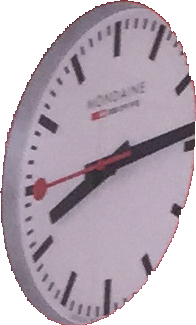
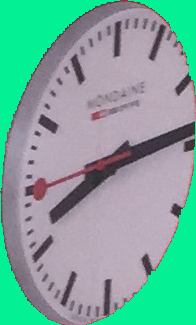
Add diameter lines

Changed region(s): [[0.0, 0.0, 0.5816, 1.0], [0.4592, 0.3692, 1.0, 1.0], [0.6735, 0.0, 1.0, 0.3077]]

diff --git a/center.js b/center.js
@@ -1,22 +1,43 @@
 const colors = require('./colors');
 const Point = require('./point');
 
-exports.find = function (image, image_name) {
-  const top = getTop(image, colors.BLACK);
-  const bottom = getBottom(image, colors.BLACK);
-  Point.paintLineBetween(image, colors.RED, bottom, top);
-  image.setPixelColor(colors.RED, top[0], top[1]);
-  image.setPixelColor(colors.RED, bottom[0], bottom[1]);
-  image.write(`./result/${image_name}/parameterized.jpg`);  // on this path an image is saved showing the advance
+exports.find = function (image, image_name, original) {
+  const vertDiameter = getVerticalDiameter(image, original);
+  const horizDiameter = getHorizontalDiameter(image, original);
+  original.write(`./result/${image_name}/parameterized.jpg`);  // on this path an image is saved showing the advance
   return image;
 };
+
+function getVerticalDiameter(image, original) {
+  const top = getTop(image, colors.BLACK);
+  const bottom = getBottom(image, colors.BLACK);
+  const diameter = paintDiameter(original, top, bottom, colors.PURPLE, colors.RED);
+  return diameter;
+}
+
+function getHorizontalDiameter(image, original) {
+  const left = getLeft(image, colors.BLACK);
+  const right = getRight(image, colors.BLACK);
+  const diameter = paintDiameter(original, left, right, colors.BLUE, colors.YELLOW);
+  return diameter;
+}
+
+function paintDiameter(image, p1, p2, mainColor, centerColor) {
+  Point.paintLineBetween(image, mainColor, p1, p2);
+  const center = Point.midPoint(p1, p2);
+  console.log(center);
+  image.setPixelColor(centerColor, center[0], center[1]);
+  image.setPixelColor(centerColor, p1[0], p1[1]);
+  image.setPixelColor(centerColor, p2[0], p2[1]);
+  return image;
+}
 
 
 // returns the coordinates of the pixel of the middle of the first line of color segment_color
 function getTop(image, segment_color) {
   const WIDTH = image.bitmap.width;
   const HEIGHT = image.bitmap.height;
-  let y = 0;
+  let x = 0;
   let n = 0;
   let found = false;
   for (let j = 0; j < HEIGHT; j++) {
@@ -24,13 +45,13 @@ function getTop(image, segment_color) {
       const color = image.getPixelColor(i, j);
       if (color === segment_color) {
         found = true;
-        y += i;
+        x += i;
         n += 1;
       }
     }
     if (found) {
-      y /= n;
-      return [parseInt(y, 10), j];
+      x /= n;
+      return [parseInt(x, 10), j];
     }
   }
 
@@ -40,7 +61,7 @@ function getTop(image, segment_color) {
 function getBottom(image, segment_color) {
   const WIDTH = image.bitmap.width;
   const HEIGHT = image.bitmap.height;
-  let y = 0;
+  let x = 0;
   let n = 0;
   let found = false;
   for (let j = HEIGHT - 1; j >= 0; j--) {
@@ -48,13 +69,64 @@ function getBottom(image, segment_color) {
       const color = image.getPixelColor(i, j);
       if (color === segment_color) {
         found = true;
-        y += i;
+        x += i;
+        n += 1;
+      }
+    }
+    if (found) {
+      x /= n;
+      return [parseInt(x, 10), j];
+    }
+  }
+
+  return [0, 0];
+}
+
+
+// returns the coordinates of the pixel of the middle of the first column of color segment_color
+function getLeft(image, segment_color) {
+  const WIDTH = image.bitmap.width;
+  const HEIGHT = image.bitmap.height;
+  let y = 0;
+  let n = 0;
+  let found = false;
+  for (let i = 0; i < WIDTH; i++) {
+    for (let j = 0; j < HEIGHT; j++) {
+      const color = image.getPixelColor(i, j);
+      if (color === segment_color) {
+        found = true;
+        y += j;
         n += 1;
       }
     }
     if (found) {
       y /= n;
-      return [parseInt(y, 10), j];
+      return [i, parseInt(y, 10)];
+    }
+  }
+
+  return [0, 0];
+}
+
+// returns the coordinates of the pixel of the middle of the last column of color segment_color
+function getRight(image, segment_color) {
+  const WIDTH = image.bitmap.width;
+  const HEIGHT = image.bitmap.height;
+  let y = 0;
+  let n = 0;
+  let found = false;
+  for (let i = WIDTH - 1; i >= 0; i--) {
+    for (let j = 0; j < HEIGHT; j++) {
+      const color = image.getPixelColor(i, j);
+      if (color === segment_color) {
+        found = true;
+        y += j;
+        n += 1;
+      }
+    }
+    if (found) {
+      y /= n;
+      return [i, parseInt(y, 10)];
     }
   }
 

diff --git a/point.js b/point.js
@@ -9,8 +9,8 @@ exports.distance = function (p1, p2) {
 function getLine(p1, p2) {
   const m = (p2[1] - p1[1]) / (p2[0] - p1[0]);
   const c = p1[1] - (m * p1[0]);
-  const s = p2[0];
-  const f = p1[0];
+  const s = p1[0] > p2[0] ? p2[0] : p1[0];
+  const f = p1[0] > p2[0] ? p1[0] : p2[0];
   return {
     m,
     c,
@@ -19,11 +19,15 @@ function getLine(p1, p2) {
   };
 }
 
+exports.midPoint = function (p1, p2) {
+  const line = getLine(p1, p2);
+  const mid = (p1[0] + p2[0]) / 2;
+  return [parseInt(mid, 10), parseInt((line.m * mid) + line.c, 10)];
+};
+
 
 exports.paintLineBetween = function (image, color, p1, p2) {
   const line = getLine(p1, p2);
-  console.log(p1, p2);
-  console.log(line);
   for (let i = line.s; i < line.f; i++) {
     const x = i;
     const y = (line.m * i) + line.c;

diff --git a/handles.js b/handles.js
@@ -1,0 +1,22 @@
+const segmenter = require('./segmenter');
+const colors = require('./colors');
+const cropper = require('./cropper');
+
+
+exports.getHandles = function (original, image_name) {
+  const secHandle = getRedHandle(original, image_name);
+  const secHandle = geBlackHandle(original, image_name);
+
+  return secHandle;
+};
+
+
+function getRedHandle(original, image_name) {
+  let image = original.clone();
+  const RED = [139, 29, 45];
+  image = segmenter.getLargestByColor(image, RED, image_name); // get binary image with BLACK whenever the is RED and the rest is white
+
+  image.write(`./result/${image_name}/seconds Handler.jpg`);  // on this path an image is saved showing the advance
+  console.log('------', `${image_name}: seconds Handler saved`);
+  return image;
+}

diff --git a/processor.js b/processor.js
@@ -6,7 +6,7 @@ exports.getHour = function (path, image_name) {
   return new Promise((resolve, reject) => {
     openImage(path).then((image) => {
       const clock = Clock.get(image, image_name);  // get an image with the clock
-      const parameterizedClock = Center.find(clock, image_name);
+      const parameterizedClock = Center.find(clock, image_name, image);
       resolve(parameterizedClock);
     }).catch((err) => {
       console.log(err);

diff --git a/files.js b/files.js
@@ -1,4 +1,4 @@
 exports.PATH = '../images/';
 
-// exports.IMAGES = ['IMG_6170.JPG', 'IMG_6194.JPG', 'IMG_6195.JPG', 'IMG_6196.JPG', 'IMG_6198.JPG'];
-exports.IMAGES = ['IMG_6196.JPG'];
+exports.IMAGES = ['IMG_6170.JPG', 'IMG_6194.JPG', 'IMG_6195.JPG', 'IMG_6196.JPG', 'IMG_6198.JPG'];
+// exports.IMAGES = ['IMG_6196.JPG'];

diff --git a/cropper.js b/cropper.js
@@ -101,7 +101,7 @@ exports.removeBackgroud = function (target, binary) {
     for (let j = 0; j < HEIGHT; j++) {
       const color = binary.getPixelColor(i, j);
       if (color === colors.WHITE) {
-        target.setPixelColor(colors.WHITE, i, j);
+        target.setPixelColor(colors.CYAN, i, j);
       }
     }
   }
